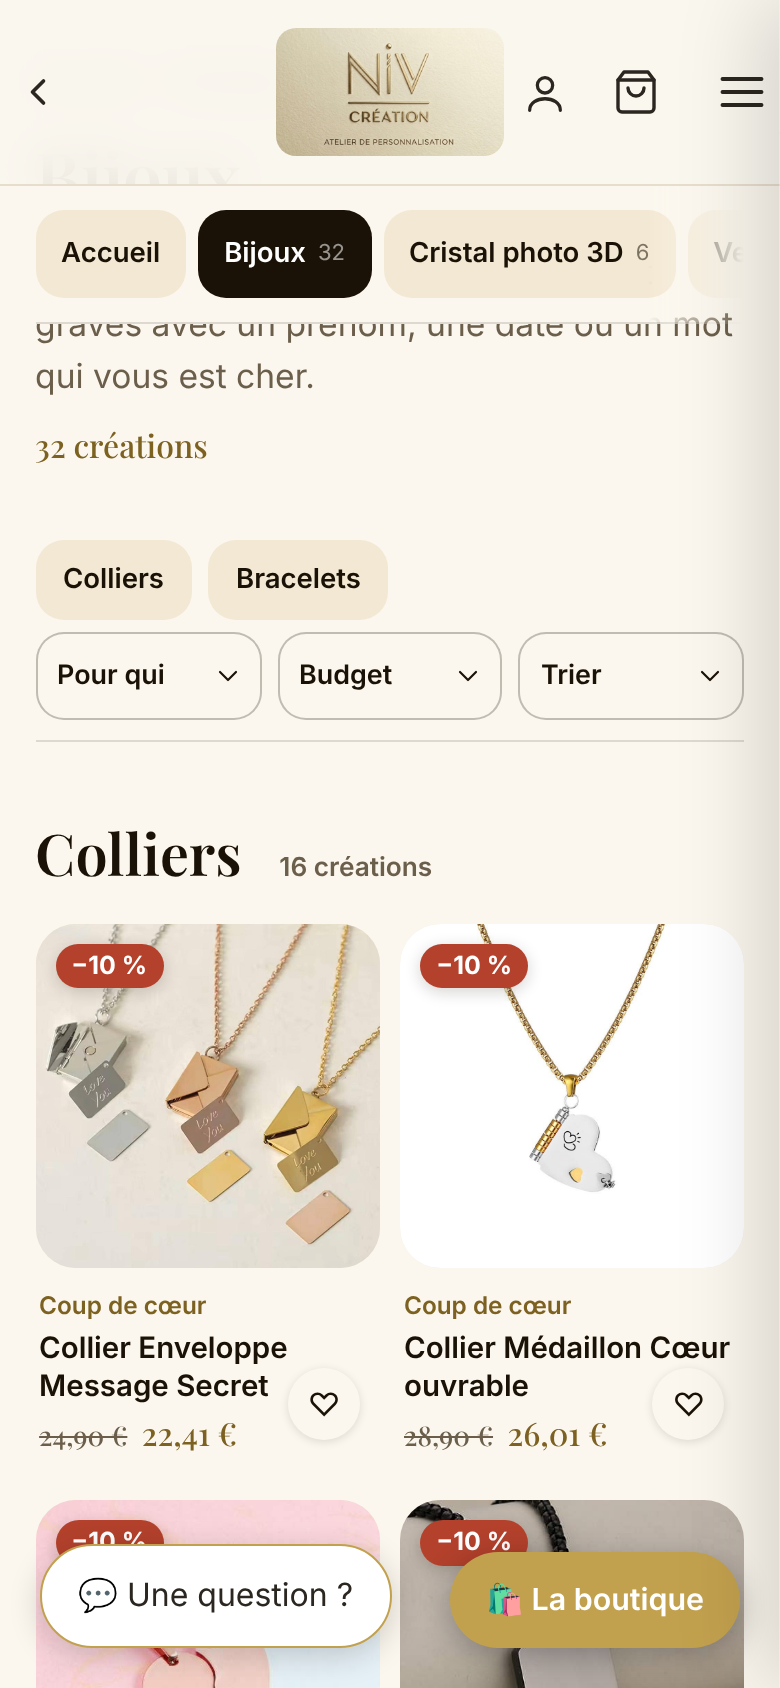
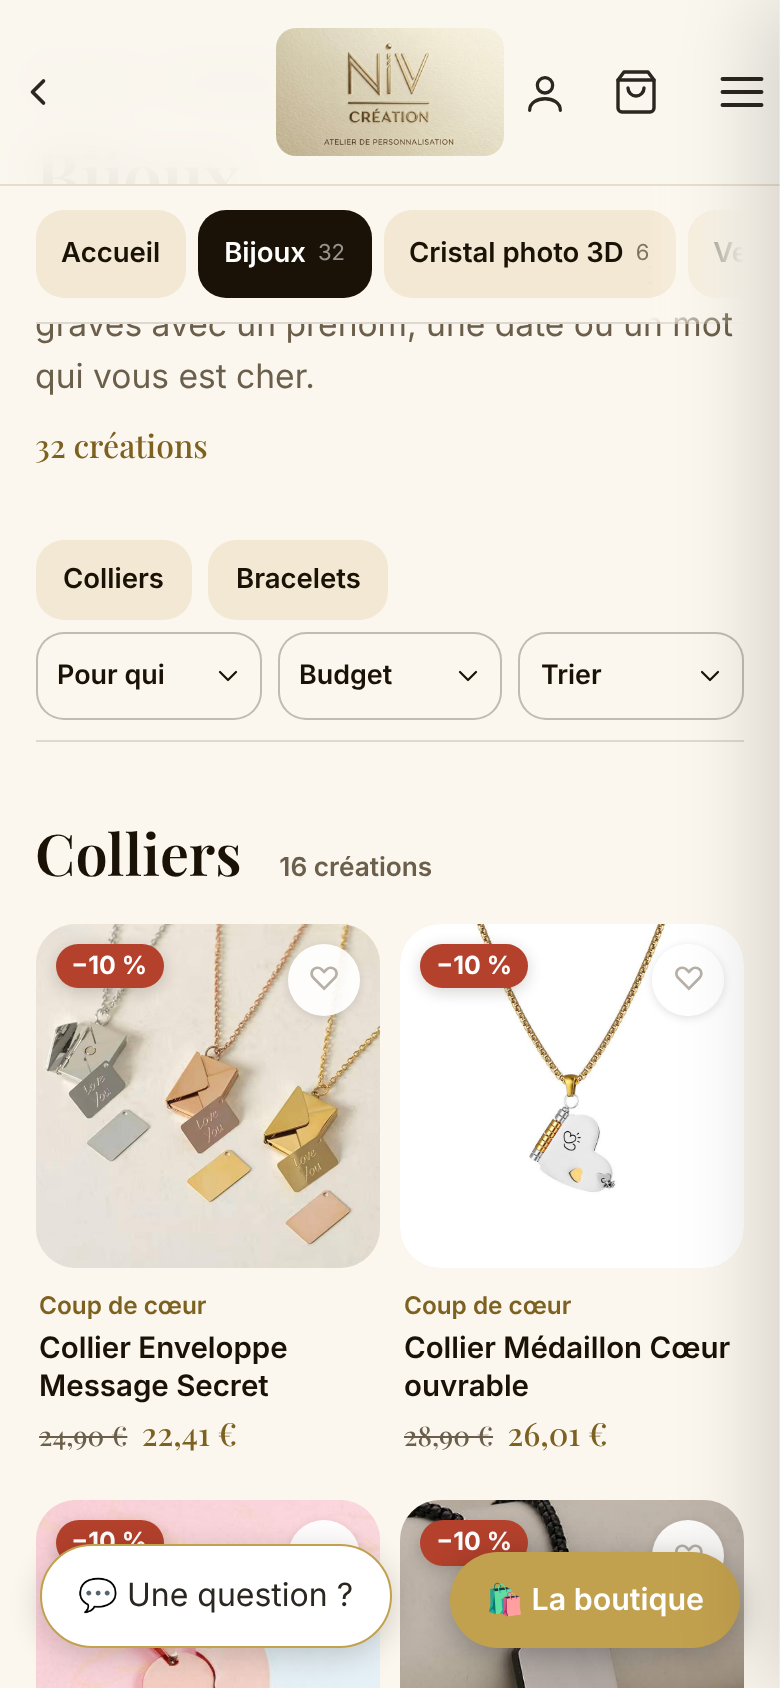
Cartes : cœur des favoris en haut à droite de la photo, fond blanc rétabli (maquette, pas en ligne)
Claude-Session: https://claude.ai/code/session_013Nt78VnTBT8S9aqZe85f4z

diff --git a/src/app/univers-site.css b/src/app/univers-site.css
@@ -42,3 +42,8 @@
 .mx .uc-price{display:flex;flex-wrap:wrap;align-items:baseline;gap:.15em .45em}
 .mx .uc-old{color:var(--muted);font-size:.85em;text-decoration-thickness:1px}
 .mx .uc-off{position:absolute;top:10px;left:10px;z-index:2;font-family:var(--sans);font-size:.78rem;font-weight:700;line-height:1;color:#fff;background:#b3412c;border-radius:999px;padding:.4em .65em;box-shadow:0 2px 8px rgba(26,18,6,.18)}
+/* Cœur des favoris en haut à droite de la PHOTO (18/10/2026) : en bas de la carte, il recouvrait le nom et le prix. */
+.mx .uc .fav-pastille-vignette{top:10px;bottom:auto;right:10px}
+/* « .mx button{background:none} » effaçait le fond blanc du cœur : invisible sur les photos sombres. */
+.mx .fav-pastille{background:rgba(255,255,255,.92);color:#b6b0a6;box-shadow:0 1px 5px rgba(0,0,0,.12)}
+.mx .fav-pastille-on,.mx .fav-pastille:hover{color:#d4506a}
